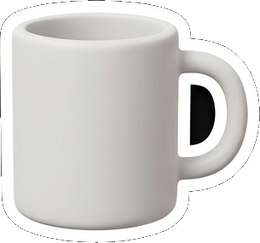
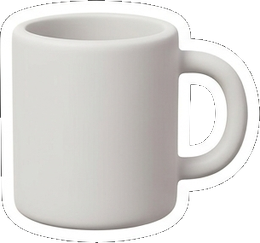
Memória das lições da noite + o banco inteiro medido
O Marcos pediu: *"os reparos e consertos guarde para não acontecer mais"*.
Ficou escrito na MEMORIA, com o defeito, a causa e a regra:

· AS FIGURAS SÃO DELE. A ordem *"não gerar no Pollinations, utilize o banco ou
  peça para eu gerar"* REVOGA a permissão de set/2026 de eu gerar arte. E o erro
  grave: o `_banco/montar.py` cataloga pelo nome-base, então as MINHAS figuras
  entraram por cima das dele no banco — oito. Restauradas do histórico. Regra
  nova: figura minha nunca ocupa o nome principal.
· OS TRÊS DEFEITOS DE NAVEGADOR DO ARRASTAR, todos silenciosos: capture que come
  os movimentos, coalescing que entrega um só, e o arrasto NATIVO da imagem que
  dispara um `pointercancel` com coordenada 0,0.
· A SÍLABA SE RECORTA DA PALAVRA, com o porquê ("bo" é [bɔ] em BOLA e [bo] em
  BOLO — nenhuma reescrita resolve).
· COMO SE FAZ O PARECER DO PEDAGOGO, passo a passo, com o modelo pronto.
· QUANDO A ARGILA É PEDAGÓGICA e quando NÃO é (Ciências pede realista).

O PORTÃO DO BURACO rodou no banco inteiro: 709 figuras, 12 acusadas. Olhei as
doze numa contato-folha e só DUAS eram defeito — a caneca e a tesoura, as duas
consertadas. As outras dez eram preto do próprio desenho: o contorno grosso dos
óculos, as pintas da bola, a lâmpada apagada, as casas da amarelinha, o olho das
crianças.

⚠ E isso virou a lição do próprio portão: **nenhum número separa o olho de uma
criança do fundo preso numa alça** — as duas manchas são igualmente chapadas e
[…]

Changed region(s): [[0.7077, 0.3457, 0.8308, 0.6049]]

diff --git a/_qa/buraco.py b/_qa/buraco.py
@@ -25,9 +25,19 @@ u"""PORTÃO DO BURACO DE FUNDO — "sobrou preto dentro da peça?"
    não uma superfície com luz. Arte tem sombreado; fundo não tem. Com essa
    regra o mesmo lote acusou UMA figura, e ela estava mesmo defeituosa.
 
+⚠⚠ E POR QUE ELE PERGUNTA EM VEZ DE DECIDIR SOZINHO. Medindo o banco inteiro
+   (709 figuras) ele acusou doze — e, olhando uma a uma, DEZ eram preto legítimo:
+   o contorno grosso dos óculos de festa, as pintas da bola de futebol, a lâmpada
+   apagada, as casas escuras da amarelinha, o olho das crianças. As assinaturas
+   se sobrepõem: o olho de uma criança é tão chapado e tão preto quanto o fundo
+   que sobrou numa alça. **Nenhum número separa os dois.** Então o portão faz o
+   que o portão das fotos já faz: ACUSA, e quem decide OLHA. A figura aprovada
+   entra em `_qa/_buraco_ok.json` com o motivo e não incomoda mais.
+
 Uso:
     python3 _qa/buraco.py <pasta-ou-arquivo> [...]      # mede e reprova (1)
     python3 _qa/buraco.py <pasta> --consertar           # apaga os buracos
+    python3 _qa/buraco.py <arquivo> --aprovar "motivo"  # é desenho, não defeito
 
 Códigos: 0 limpo · 1 há buraco de fundo · 2 não consegui medir.
 """
@@ -44,7 +54,10 @@ except ImportError:
     print(u"nao consegui medir: falta Pillow/numpy")
     sys.exit(2)
 
+APROVADOS = os.path.join(os.path.dirname(os.path.abspath(__file__)), "_buraco_ok.json")
 MIN_PIXELS = 120     # menor que isto e sujeira de recorte, nao mancha visivel
+MAX_FRACAO = 0.08    # buraco de alca e alguns por cento da peca, nunca um terco
+MIN_TRANSP = 0.02    # a peca tem que SER recortada (ter fundo transparente)
 LUM_MEDIA = 26       # o fundo e quase preto puro
 LUM_DESVIO = 7       # ... e CHAPADO: arte sombreada passa disto
 CERCA = 0.93         # quase todo o anel em volta e peca opaca
@@ -61,6 +74,14 @@ def _blobs(cam):
     achados = []
     if not escuro.any():
         return achados, im, a
+    # ⚠ GUARDA 1 — SÓ PEÇA RECORTADA. Ilustração de página inteira (céu de
+    #    noite, fundo escuro) é opaca de ponta a ponta: ali o preto chapado é
+    #    desenho, não sobra de recorte. Sem esta linha o portão acusou as oito
+    #    páginas `pg*.png` do banco, com 150 mil pixels cada — nenhuma defeituosa.
+    opacos = (al > 120)
+    if (1.0 - opacos.mean()) < MIN_TRANSP:
+        return achados, im, a
+    area_peca = float(opacos.sum())
     vis = np.zeros(escuro.shape, bool)
     H, W = escuro.shape
     for y0, x0 in zip(*np.nonzero(escuro)):
@@ -90,6 +111,10 @@ def _blobs(cam):
         x1, x2 = max(0, P[:, 1].min() - 3), min(W - 1, P[:, 1].max() + 3)
         if (al[y1:y2 + 1, x1:x2 + 1] > 120).mean() < CERCA:
             continue                      # nao esta cercado por peca
+        # ⚠ GUARDA 2 — TAMANHO. Buraco de alca, de furo de tesoura ou de vao de
+        #    janela e alguns por cento da peca. Mancha grande e desenho.
+        if len(pix) > area_peca * MAX_FRACAO:
+            continue
         achados.append(P)
     return achados, im, a
 
@@ -133,9 +158,32 @@ def arquivos(alvos):
     return saida
 
 
+def _ok():
+    try:
+        import json
+        return json.load(open(APROVADOS, encoding="utf-8"))
+    except Exception:                                            # noqa: BLE001
+        return {}
+
+
+def _aprova(cams, motivo):
+    import json
+    d = _ok()
+    for c in cams:
+        d[os.path.basename(c)] = motivo
+    open(APROVADOS, "w", encoding="utf-8").write(
+        json.dumps(d, ensure_ascii=False, indent=1, sort_keys=True))
+    print(u"aprovadas %d figura(s): %s" % (len(cams), motivo))
+
+
 def main():
     args = [x for x in sys.argv[1:] if not x.startswith("--")]
     consertar = "--consertar" in sys.argv
+    aprovar = None
+    if "--aprovar" in sys.argv:
+        i = sys.argv.index("--aprovar")
+        aprovar = sys.argv[i + 1] if i + 1 < len(sys.argv) else u"desenho, nao defeito"
+        args = [a for a in args if a != aprovar]
     if not args:
         print(__doc__)
         return 2
@@ -143,6 +191,11 @@ def main():
     if not alvos:
         print(u"nao consegui medir: nenhum .png em %s" % ", ".join(args))
         return 2
+    if aprovar:
+        _aprova(alvos, aprovar)
+        return 0
+    ok = _ok()
+    alvos = [c for c in alvos if os.path.basename(c) not in ok]
     maus = []
     for cam in alvos:
         try:

diff --git a/MEMORIA-DO-PROJETO.md b/MEMORIA-DO-PROJETO.md
@@ -7060,3 +7060,133 @@ no meio de argila a criança não vê como "estilo diferente" — ela vê um bic
 verdade ao lado de um brinquedo, e no 1º ano isso atrapalha o reconhecimento,
 que é o trabalho da folha. Antes de publicar atividade com muita figura, montar
 o **contato-folha** (todas as figuras numa imagem só, sobre xadrez) e OLHAR.
+
+## 🖼🚫 AS FIGURAS SÃO DELE — e eu quase apaguei o banco (8/set/2026)
+
+Três ordens do Marcos numa noite só, e as três nasceram de erro meu:
+
+> *"a imagem do gato não é a imagem que gerei, esse gato é feio, favor trocar,
+> **não gere imagens no Pollinations**"* · *"não gerar no Pollinations fica
+> horrível, **utilize o banco ou peça para eu gerar**"* · *"delete essas imagens
+> que citei do banco de imagens"*.
+
+**ISTO REVOGA a permissão de set/2026 de eu gerar arte no Pollinations.** A
+troca que ele tinha feito era por velocidade; a qualidade não pagou. A regra
+volta a ser: **procurar no banco; se não houver, PASSAR O PROMPT para ele
+gerar** (ChatGPT/Gemini) e eu só recortar e instalar.
+
+### ⚠⚠ O ERRO GRAVE: eu sobrescrevi as figuras dele no banco
+
+O `_banco/montar.py` cataloga copiando da atividade para o banco **pelo
+nome-base** (`_alfa1/img/al_gato.png` → `_banco/img/gato.png`). Como eu tinha
+posto as MINHAS figuras na atividade, ao catalogar elas entraram **por cima das
+dele** — oito figuras (gato, sapo, jacaré, abelha, macaco, tucano, vaca, rato).
+Ele percebeu porque conhecia o gato dele.
+
+Restaurei do histórico (`git checkout <commit-anterior> -- _banco/img/<nome>.png`)
+e troquei a atividade pelas versões dele, que eram melhores.
+
+**REGRA QUE FICA:** antes de rodar o `_banco/montar.py`, conferir se a figura
+já existe no banco com aquele nome. Se existir e for diferente, **não
+sobrescrever** — a do banco é a dele. Figura minha, se houver, entra com sufixo
+(`-2`, `-3`), nunca no nome principal.
+
+### 🕳 O PORTÃO DO BURACO — `_qa/buraco.py` (nasceu aqui)
+
+O mesmo defeito chegou a ele TRÊS vezes: *"a xícara está com magenta entre a
+alça"*, *"a xícara ficou com preto dentro da alça"*, *"a caneca aparece o preto
+dentro da parte entre a alça e a caneca"*. A causa é sempre de RECORTE: a peça
+saiu de cartela de fundo preto/magenta e o recorte por cor só alcança o fundo de
+FORA — todo buraco **fechado** (alça, furo de tesoura, vão de janela) guarda o
+fundo lá dentro.
+
+`python3 _qa/buraco.py <pasta> [--consertar]` mede e conserta.
+
+⚠ **Como ele distingue fundo de desenho** (a primeira versão acusou 42 de 62
+figuras — a bola de futebol, o dado, o olho do gato): o fundo é **CHAPADO**,
+luminância média quase zero e desvio quase nulo; arte tem sombreado. Com essa
+regra o mesmo lote acusou UMA figura — a tesoura, com preto nos dois furos dos
+dedos, que ninguém tinha visto. **Rodar em toda pasta de imagens antes de
+publicar.** O banco inteiro ainda tem casos: fila.
+
+### 🎨 A ARGILA É PEDAGÓGICA — mas não em tudo
+
+Ele perguntou: *"essas figuras na forma de argila são pedagógicas? estão
+corretas usar?"*. A resposta medida:
+
+- **Alfabetização e vocabulário → argila, sim.** O trabalho é recuperar o NOME
+  da figura, e as normas de nomeação (Snodgrass & Vanderwart; Rossion &
+  Pourtois) mostram desenho colorido simplificado nomeado tão rápido e tão certo
+  quanto fotografia. Vista canônica, cor prototípica, fundo transparente: pelo
+  princípio da coerência (Mayer), detalhe irrelevante só ocupa memória.
+- **Ciências e conteúdo factual sobre o animal/objeto real → foto ou arte
+  realista.** Há evidência (Ganea et al., 2011 e 2014) de que a criança pequena
+  transfere melhor o FATO para o mundo real a partir de imagem realista, e que
+  antropomorfismo (bicho de roupa, em pé como gente) atrapalha.
+- Em qualquer caso: exemplar TÍPICO e **um estilo só na atividade inteira** —
+  foi por isso que seis fotografias no meio de 53 figuras de argila eram defeito.
+
+## 🖐 TRÊS DEFEITOS DE NAVEGADOR NO ARRASTAR — todos silenciosos (8/set/2026)
+
+Ao pôr "arrastar além de clicar" na folha viva, o arrasto simplesmente NÃO
+acontecia. Nenhum erro na tela, nada no console. Foram três causas empilhadas, e
+qualquer uma sozinha mata o gesto:
+
+1. **`setPointerCapture` no botão + ouvir `pointermove` NELE:** só o primeiro
+   movimento chega. O padrão certo é ouvir no **documento** — o dedo precisa
+   poder sair de cima da peça, que é o que ele faz ao levá-la.
+2. **O navegador FUNDE os movimentos** (coalescing): num teste de 8 passos
+   chegou UM `pointermove`, de 5 px. Decidir "isto é arrasto" contando
+   movimentos perde a jogada. **Quem manda é a SOLTURA**: apertou na peça e
+   soltou sobre o alvo = soltou ali.
+3. **A IMAGEM tem arrasto nativo.** Ao puxar, o Chrome começava o SEU arrasto do
+   `<img>` e disparava um `pointercancel` — e esse cancel vem com
+   **clientX/clientY = 0,0**, então quem confiasse nele concluiria que a criança
+   soltou no canto da tela. Conserto: `draggable="false"` em toda imagem,
+   `user-drag:none` no CSS, `dragstart` cancelado no documento, e guardar o
+   último ponto REAL do ponteiro para usar quando o evento vier sem posição.
+
+**Ao pôr arrastar em qualquer peça nova, conferir os três.**
+
+## 🗣 A SÍLABA SE RECORTA DA PALAVRA — não se sintetiza solta (8/set/2026)
+
+Ordem dele: *"a pronúncia das sílabas precisa ser precisa e melhorada, use
+alguma ferramenta profissional"*.
+
+**Por que a sílaba solta sai errada por construção:** o sintetizador não lê SOM,
+lê PALAVRA. "çã" sozinho não tem regra em português (ç não começa palavra) e sai
+soletrado; e — pior porque é invisível — a MESMA sílaba escrita tem sons
+diferentes conforme a palavra: **"bo" é [bɔ] em BOLA e [bo] em BOLO**. Reescrever
+a sílaba "como se fala" (çã → "sã") conserta um caso por vez e nunca fecha a
+família.
+
+**`_padrao/silabas_voz.py`** faz o certo: manda o Edge TTS ler as sílabas
+daquela palavra numa tacada (`gi, ra, fa`), recebe do **próprio serviço** os
+marcadores de tempo de cada pedaço (`WordBoundary`, em unidades de 100 ns — é do
+protocolo) e corta o mp3 exatamente neles. A criança ouve a sílaba na voz, no
+ritmo e na altura daquela palavra. Roda no `entregar.yml`, `continue-on-error`.
+
+O `gerar_falas.py` monta junto o mapa **sílaba → (palavra, posição)**, para a
+sílaba que aparece solta (um distrator) ser tocada a partir de alguma palavra.
+
+## 👩🏫 O PEDAGOGO NÃO É FORMALIDADE — ele achou o que faltava (8/set/2026)
+
+Ordem dele: *"é muito imperativo que essas atividades passem pelo pedagogo, e
+especialista de cada disciplina no caso dos anos finais"* e *"tem que estar
+adequado e pedagógico"*.
+
+Passei a Fábrica de Palavras pelo currículo de Blumenau (1º ano, LP) **linha por
+linha**, e o parecer achou uma falta real: o **primeiro** objetivo do ano é
+*"nomear as letras do alfabeto e ordená-las"*, o Marcos tinha pedido "sequência
+alfabética" no encargo — e não havia folha nenhuma disso. Entrou a folha "A fila
+do alfabeto", como folha 1.
+
+**Como fazer o parecer (virou receita):** abrir o `_curriculo/blumenau.txt` na
+seção do ano e da disciplina, **transcrever os objetivos verbatim** numa tabela,
+mapear folha por folha contra eles, e escrever o que FALTA e o que está fora da
+disciplina. O resultado fica em `<pasta>/PARECER-PEDAGOGICO.md`, junto da
+atividade. Modelo pronto: `_alfa1/PARECER-PEDAGOGICO.md`.
+
+⚠ E o parecer diz a verdade inclusive quando é inconveniente: ali está escrito
+que a folha "O que vem depois" é objetivo de **Matemática**, não de Português, e
+que **falta rima** (objetivo de oralidade).
